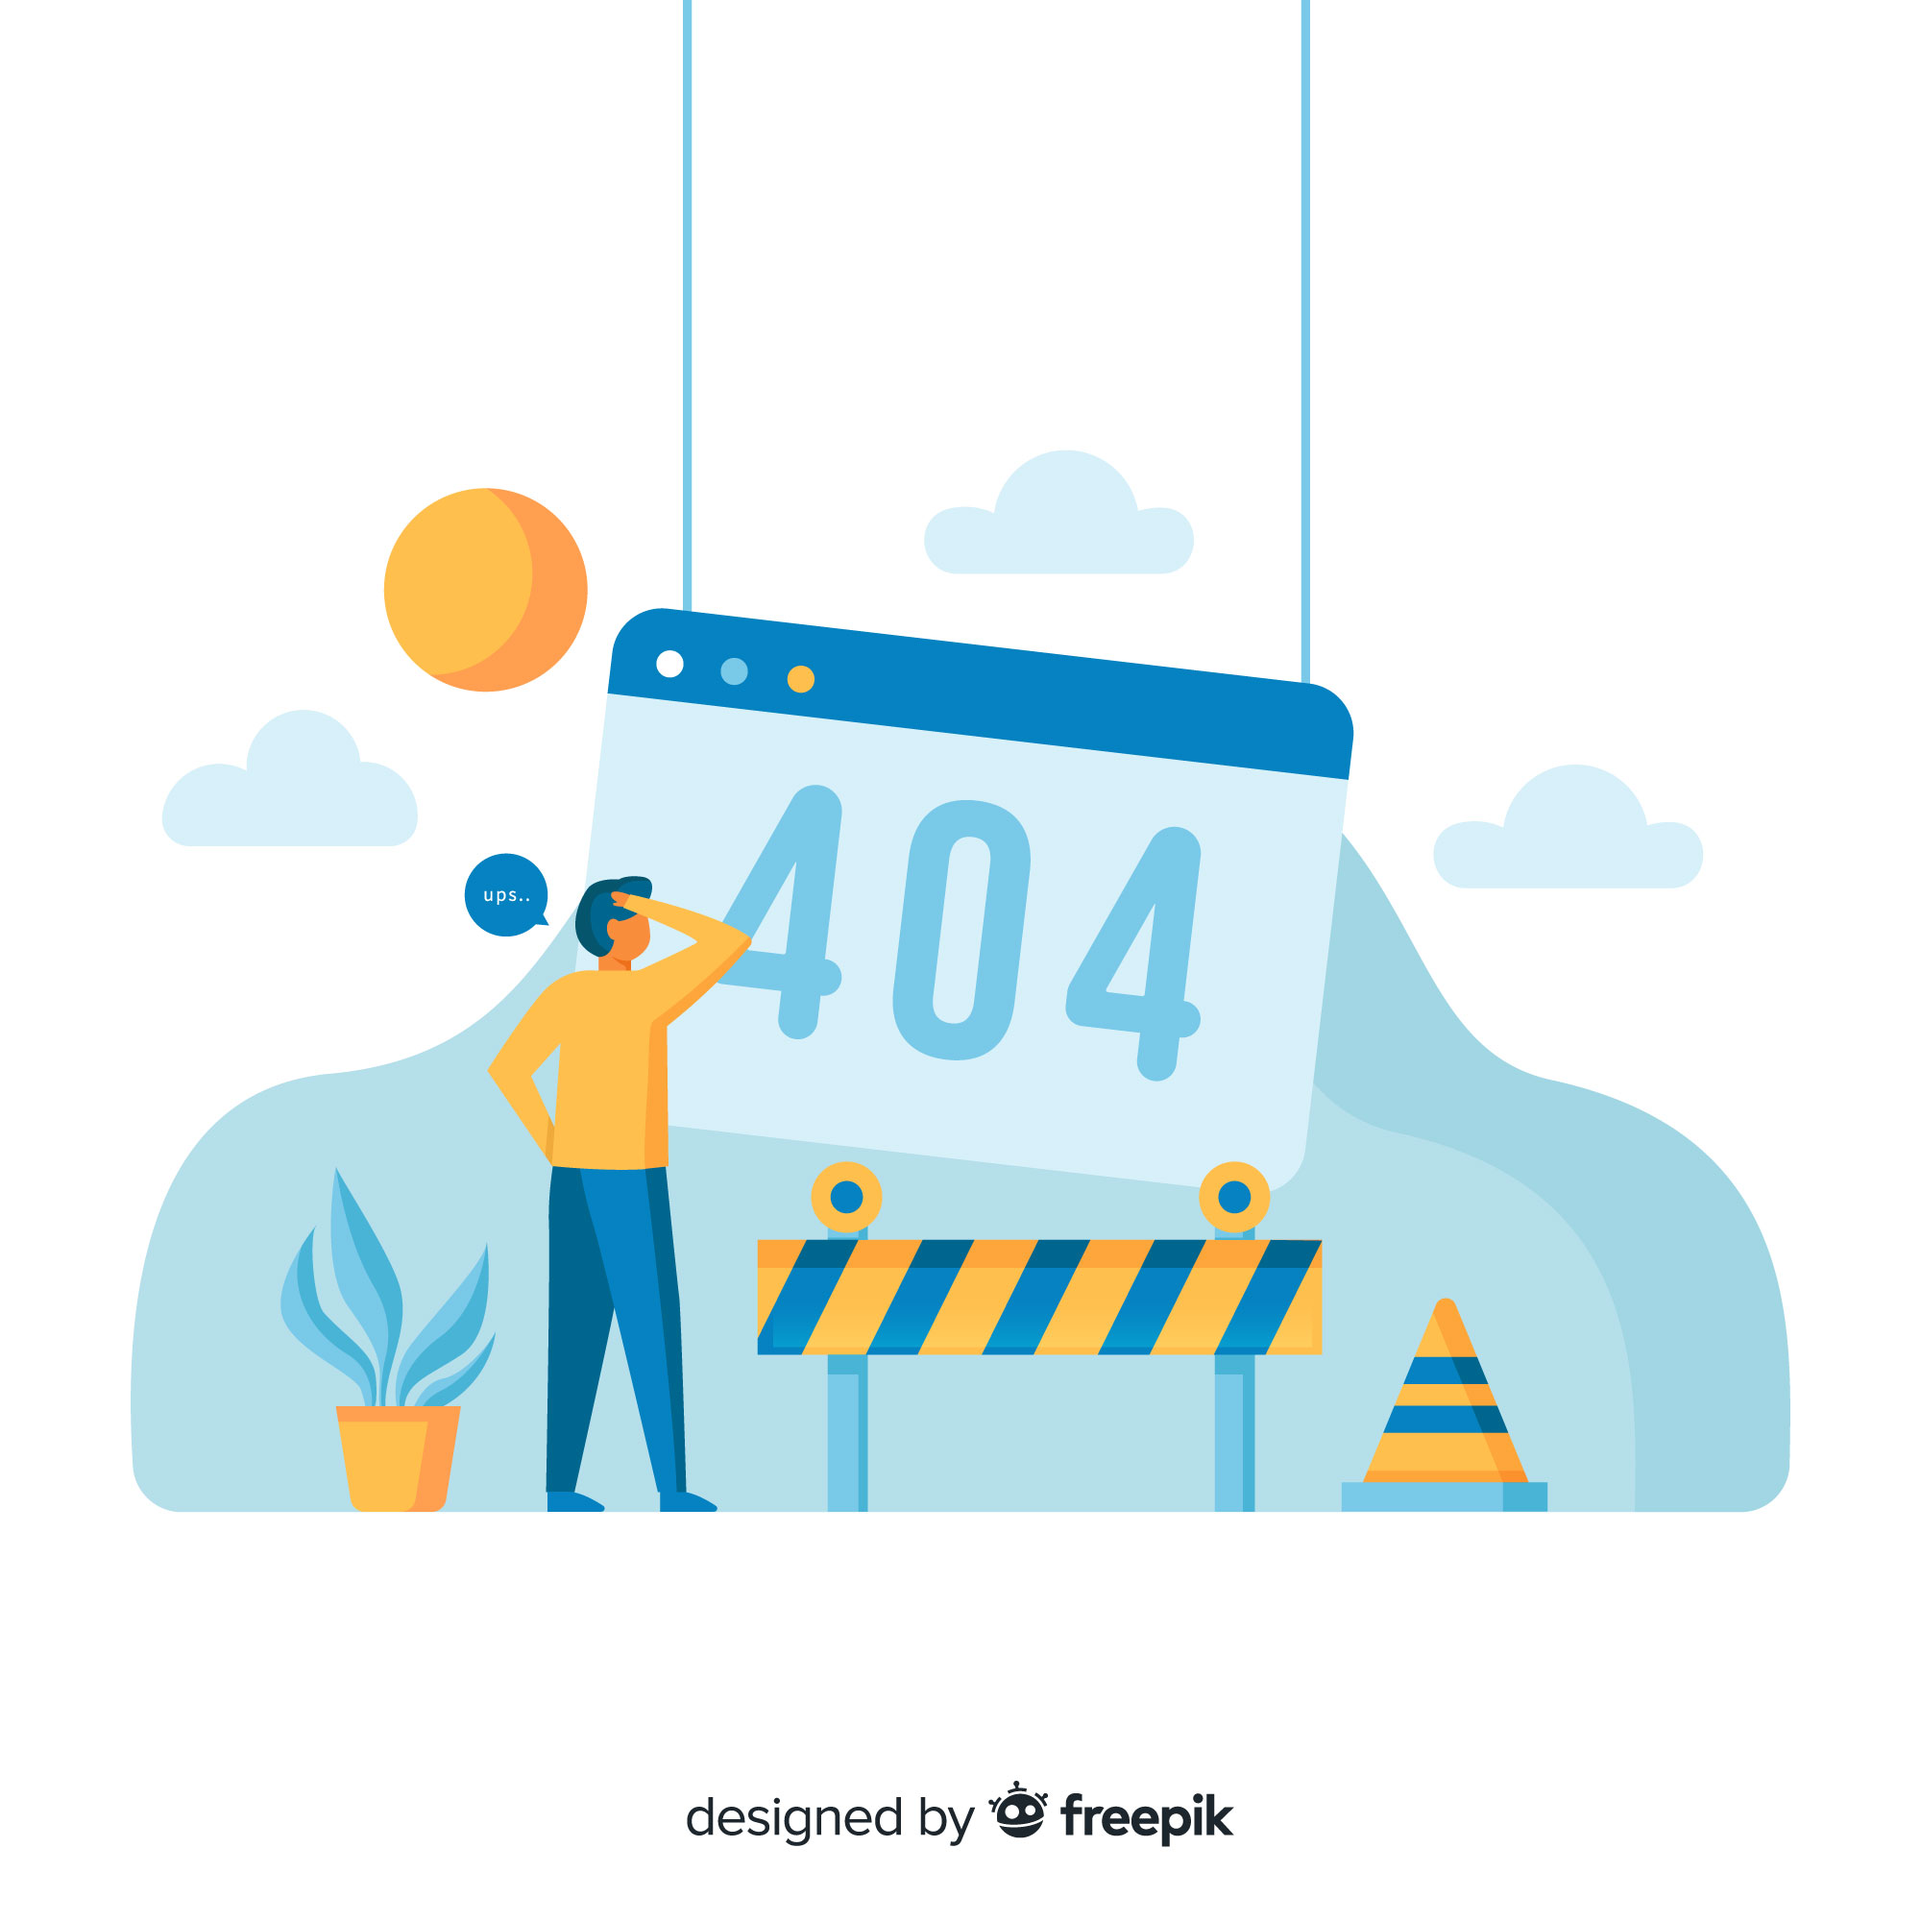
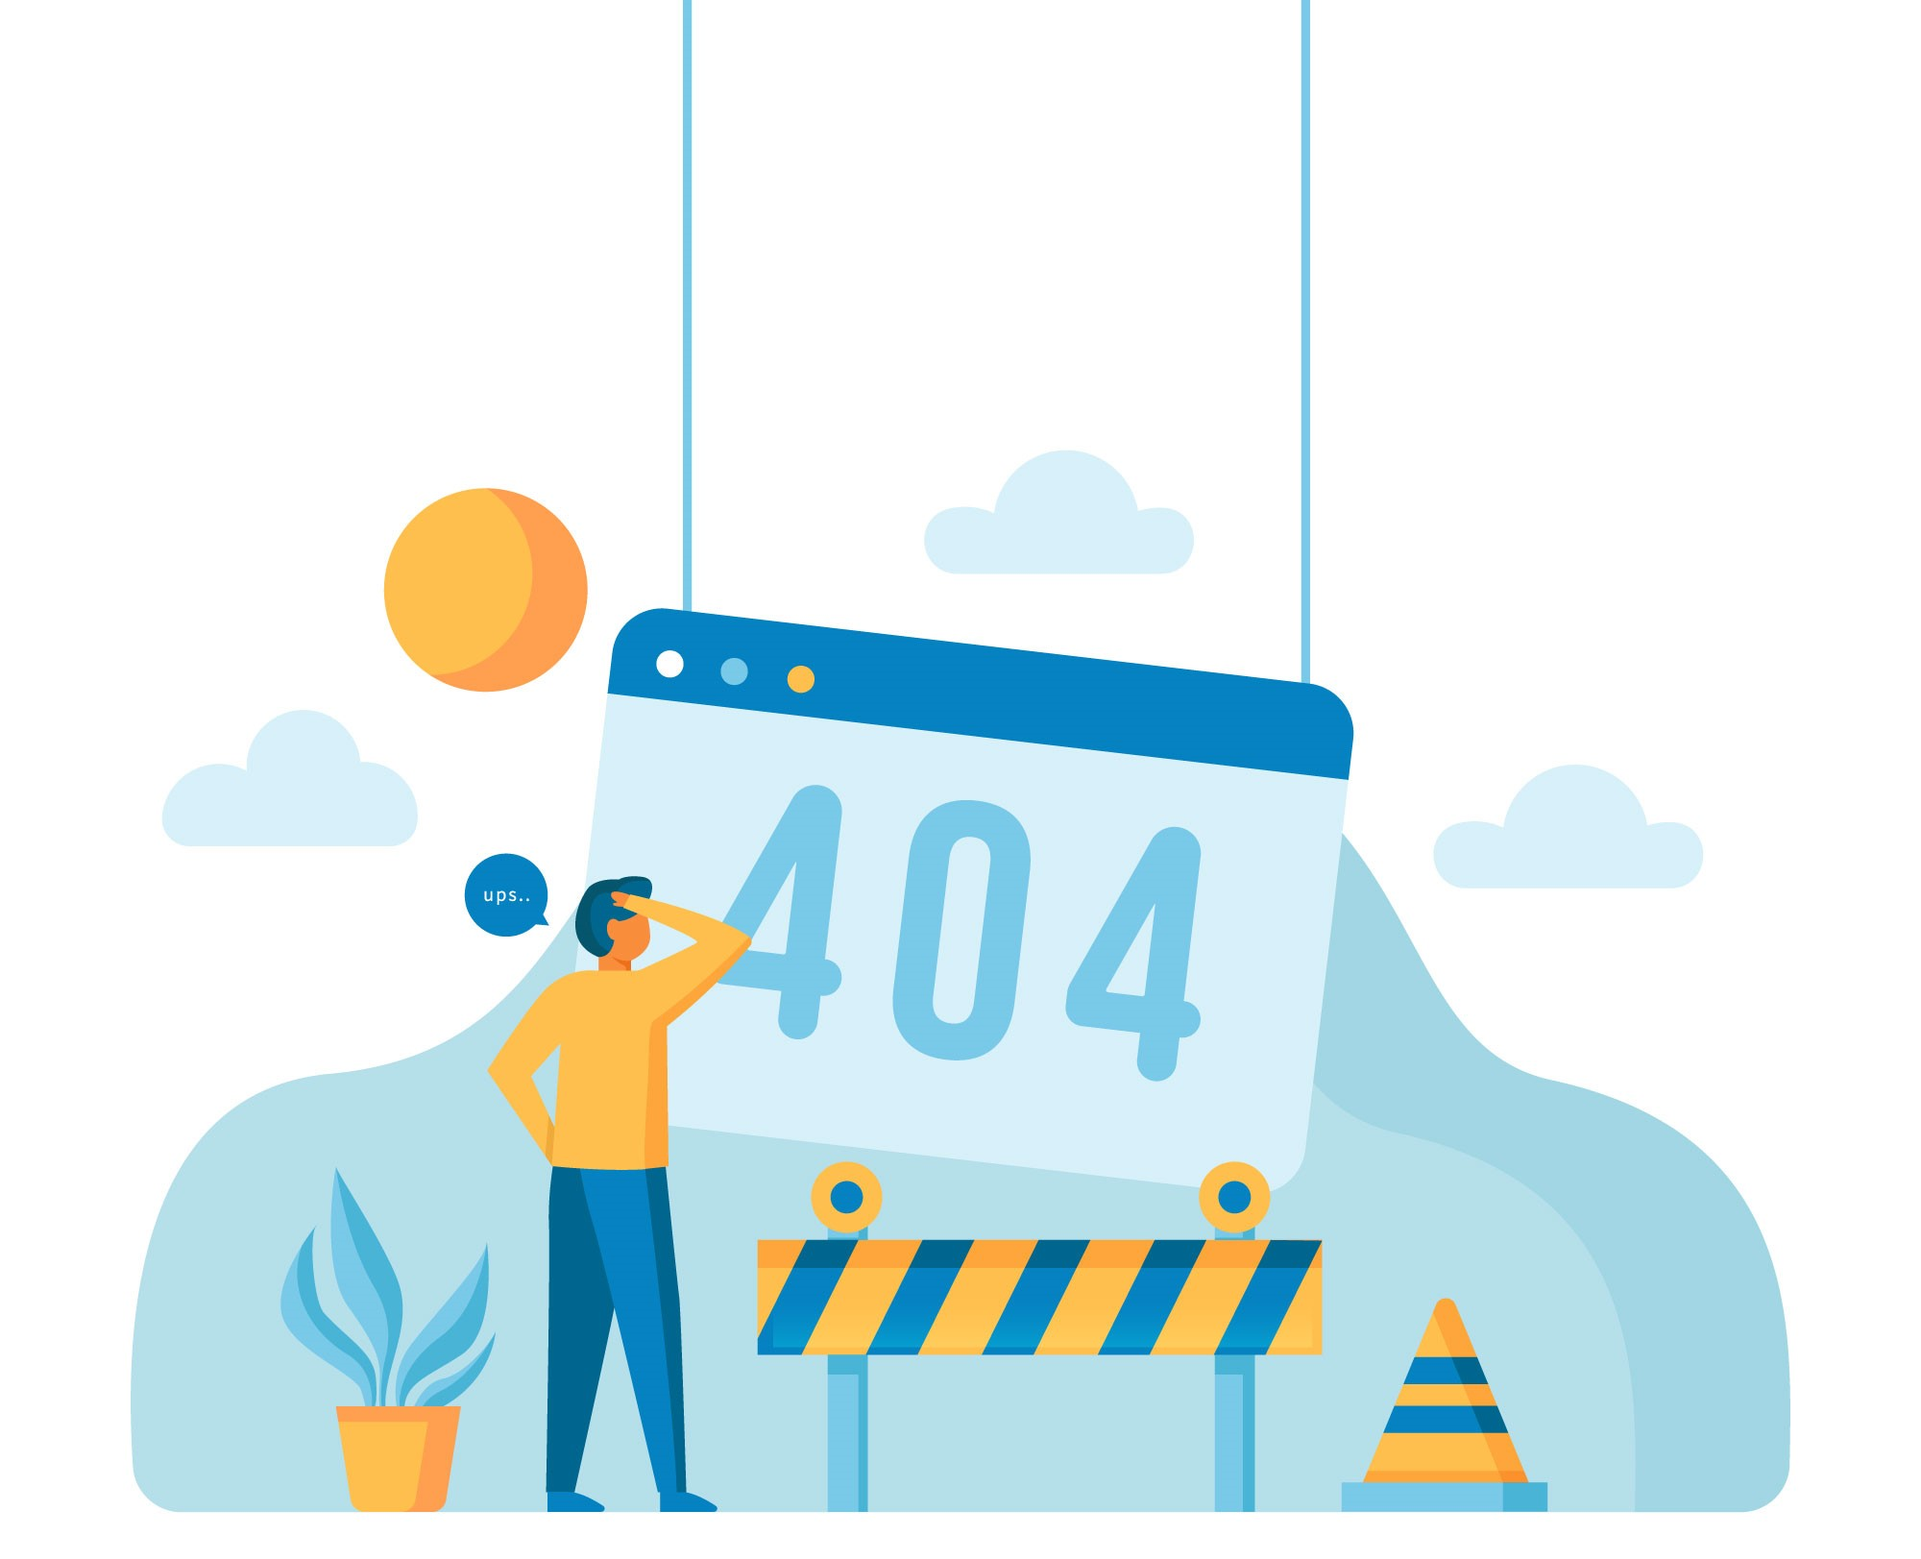
update 404

diff --git a/src/WebUI/ClientApp/src/app/NoPage/no-page/no-page.component.css b/src/WebUI/ClientApp/src/app/NoPage/no-page/no-page.component.css
@@ -1,12 +1,12 @@
 h1 {
-    text-align: center;
-    font-size: 50px;
-  }
+  text-align: center;
+  font-size: 30px;
+}
 
-  .error404-logo {
-    width: 45rem;
-    height: auto;
-    display: block;
-    margin-left: auto;
-    margin-right: auto;
-  }
+.error404-logo {
+  width: 25rem;
+  height: auto;
+  display: block;
+  margin-left: auto;
+  margin-right: auto;
+}

diff --git a/src/WebUI/ClientApp/src/app/NoPage/no-page/no-page.component.html b/src/WebUI/ClientApp/src/app/NoPage/no-page/no-page.component.html
@@ -1,5 +1,4 @@
-
-<div>
+<div fxLayoutGap="20px" fxLayout="column" fxLayoutAlign="center center">
   <img src="../../assets/images/error404.jpg" class="error404-logo" alt="" />
     <h1>Page Not Found :(</h1>
 </div>
